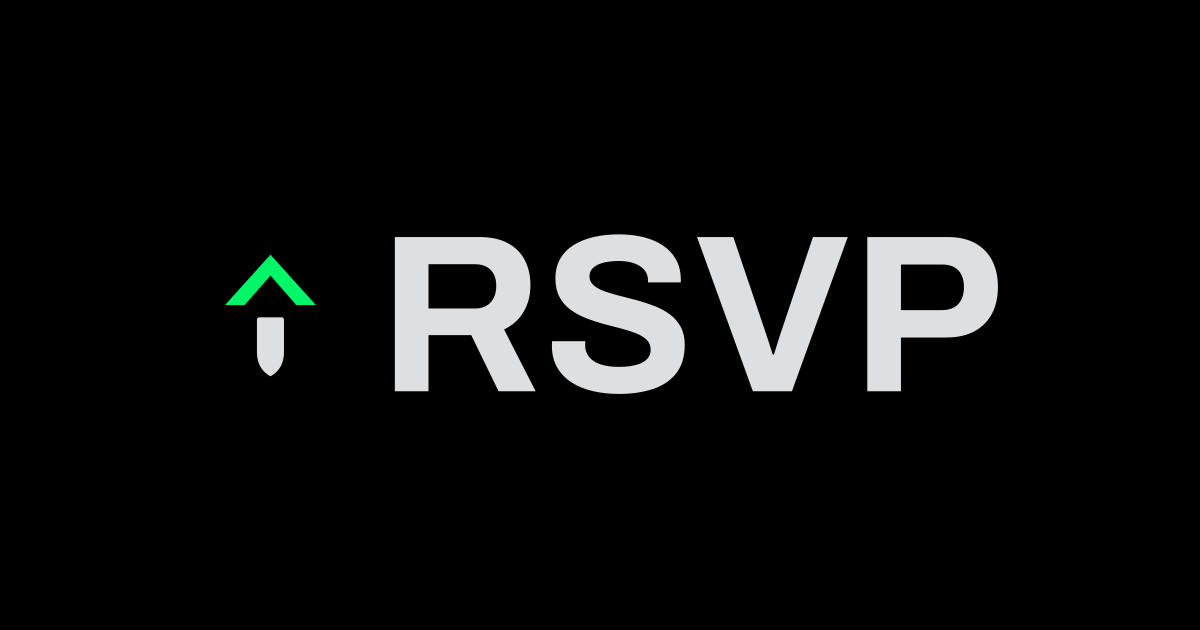
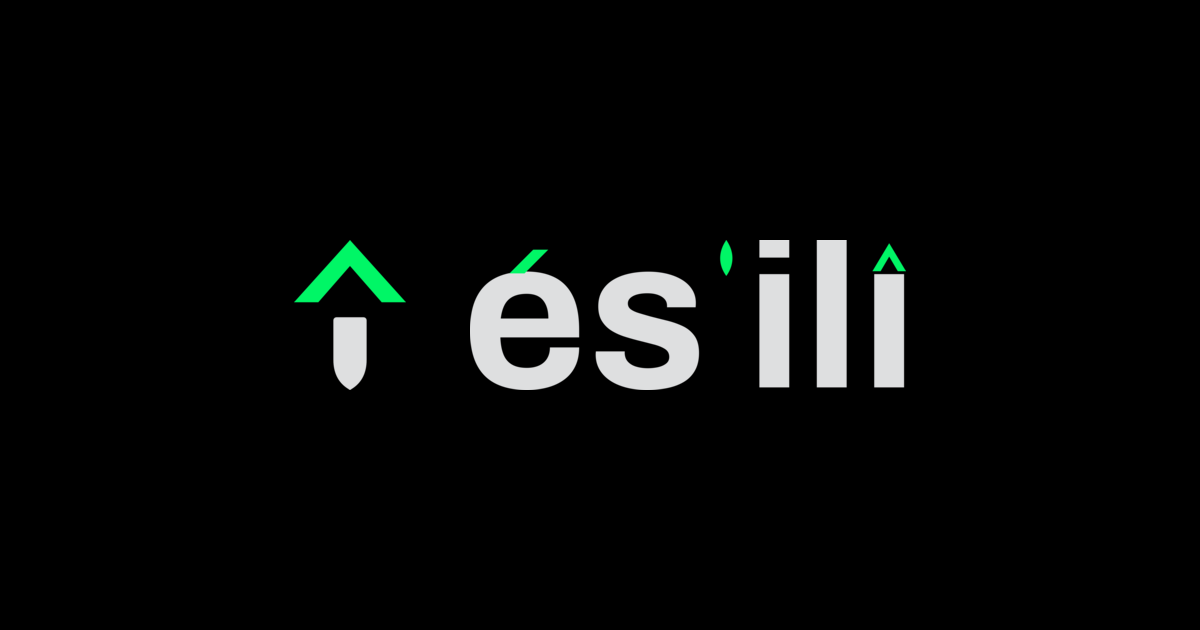
feat(brand): make és'ilî the product name across every surface
PM decision 2026-08-27: és'ilî is the product name, not a maker's mark.

The 2026-08-25 rename had reached four surfaces while eleven still read RSVP.
That is not an unfinished rollout — it is two brand positions running at once,
and the recorded rationale ("RSVP names a category, not this product") had
already chosen between them.

A link sent by email said és'ilî, its preview image said RSVP, the tab title
said és'ilî, and the admin console said RSVP. One journey, three answers.

Changed:
- OG share image rebuilt from the brand kit: î monogram plus the és'ilî
  wordmark on black, accent green on the three diacritics
- Admin header text on both admin pages
- Event-card organizer name in lib/event.ts
- Logo alt text on the landing, /register and /status
- package.json name
- Metadata description: "Event RSVP & check-in system" also claimed check-in,
  which is Phase 2 and not shipped — a §9.7 credibility violation independent
  of the rename. Now "Event registration and guest management"

Deliberately unchanged:
- The Netlify subdomain r-khiong-rsvp.netlify.app. Netlify does not redirect a
  renamed site's old URL; per Netlify support it returns "Page not found", and
  that URL has already gone out in applications. A custom domain can be added
  alongside it later — lib/site.ts already reads NEXT_PUBLIC_SITE_URL
- The hero line "Manage event RSVPs without the spreadsheet chaos" — RSVP is a
  common noun there, and it is now the only thing on the page saying what the
[…]

Changed region(s): [[0.185, 0.3619, 0.8325, 0.6333]]

diff --git a/app/admin/registrations/page.tsx b/app/admin/registrations/page.tsx
@@ -39,7 +39,7 @@ export default async function RegistrationsPage({
       <header className="flex flex-wrap items-center justify-between gap-4">
         <div className="flex items-center gap-2 font-semibold">
           <CalendarCheck className="h-5 w-5" />
-          <span className="text-lg">RSVP</span>
+          <span className="text-lg">és&apos;ilî</span>
         </div>
         <div className="flex items-center gap-4">
           <span className="text-sm text-muted-foreground">{user.email}</span>

diff --git a/lib/event.ts b/lib/event.ts
@@ -35,7 +35,7 @@ export const EVENT: EventInfo = {
     "https://www.google.com/maps/search/?api=1&query=Aspace+YS+No.+1+Yumen+St+Zhongshan+Dist+Taipei",
   description:
     "An evening of talks and open networking for digital marketing practitioners.",
-  organizerName: "RSVP",
+  organizerName: "és'ilî",
 };
 
 // Formatting is composed from separate Intl formatters rather than

diff --git a/app/admin/login/page.tsx b/app/admin/login/page.tsx
@@ -60,7 +60,7 @@ export default function AdminLoginPage() {
       <div className="w-full max-w-md space-y-6">
         <div className="flex items-center justify-center gap-2 font-semibold">
           <CalendarCheck className="h-5 w-5" />
-          <span className="text-lg">RSVP</span>
+          <span className="text-lg">és&apos;ilî</span>
         </div>
 
         <Card>

diff --git a/app/status/[token]/page.tsx b/app/status/[token]/page.tsx
@@ -109,7 +109,7 @@ export default async function StatusPage({
       <nav className="flex items-center justify-between border-b border-white/10 px-[34px] py-[18px]">
         <Image
           src="/brand/mark-primary-dark.svg"
-          alt="RSVP"
+          alt="és'ilî"
           width={30}
           height={32}
           priority

diff --git a/app/layout.tsx b/app/layout.tsx
@@ -42,7 +42,7 @@ export const metadata: Metadata = {
   // http://localhost:3000 and every shared link ships a dead preview image.
   metadataBase: new URL(SITE_URL),
   title: "és'ilî",
-  description: "Event RSVP & check-in system",
+  description: "Event registration and guest management",
 };
 
 export default function RootLayout({

diff --git a/app/register/page.tsx b/app/register/page.tsx
@@ -113,7 +113,7 @@ export default function RegisterPage() {
       <nav className="flex items-center justify-between border-b border-white/10 px-[34px] py-[18px]">
         <Image
           src="/brand/mark-primary-dark.svg"
-          alt="RSVP"
+          alt="és'ilî"
           width={30}
           height={32}
           priority

diff --git a/app/page.tsx b/app/page.tsx
@@ -93,7 +93,7 @@ function Monogram() {
   return (
     <Image
       src="/brand/mark-primary-light.svg"
-      alt="RSVP"
+      alt="és'ilî"
       width={30}
       height={32}
       priority

diff --git a/docs/decision-log.md b/docs/decision-log.md
@@ -64,4 +64,5 @@
 | 2026-07-29 | Second recurrence of "Grants are per-role". `/register` was using the session-aware `createBrowserClient`, so a browser carrying an admin session submitted as `authenticated` — a role never granted `SELECT ON events` or `INSERT ON registrations`, producing 42501. **Fixed in code (a new anon-only client) rather than in SQL (granting `authenticated`)**: the SQL route would have given the read-only demo admin INSERT permission and broken that guarantee, since its restrictive policy only blocks UPDATE and DELETE. Error codes were surfaced in the UI at the same time — this failure ran for 12 days precisely because generic copy made a permission error and a connection error look identical. |
 | 2026-08-03 | The 20-second batch-action GIF, part of the read-only demo decision above, was cancelled and never shipped. Superseded by the root landing: the GIF existed to convey the batch action to someone who could not perform it, and the landing now shows the admin console directly through screenshots plus a one-click read-only entry. A separate animation adds nothing the page does not already do. |
 | 2026-08-04 | **The v9 brand system replaced shadcn defaults.** A single `#00F666` accent on a neutral ramp, Archivo / Inter / Geist Mono, dark guest-facing surfaces, and dot-plus-label status indicators, superseding the earlier position that the project would not define its own brand colour or typeface. Rationale: the product needed a brand position. shadcn defaults are a sensible starting point, not an identity — a product that looks like every other shadcn build has no position to occupy, and the visual language is part of what the product is, not decoration applied afterwards. This entry closes a gap: the change shipped without a decision record, which is why CLAUDE.md §8.6 contradicted the codebase for three weeks. |
+| 2026-08-27 | **és'ilî confirmed as the product name, not a maker's mark.** The 2026-08-25 rename reached four surfaces while eleven still read RSVP, which is two brand positions running at once rather than an unfinished rollout. Resolved in favour of the product reading: the OG share image, the admin header text, the event-card organizer, every logo `alt`, and the package name are now és'ilî. RSVP survives only as a common noun in the hero line — the brand name says who, the category word says what. **Not changed:** the Netlify subdomain `r-khiong-rsvp.netlify.app` stays. Netlify does not redirect a renamed site's old URL — it returns Page not found — and that URL has already gone out in applications. A custom domain can be added later alongside it; `lib/site.ts` is already built for that. The admin header still uses a lucide `CalendarCheck` where §8.6 specifies the î monogram; that is part of the admin v9 redesign. |
 | 2026-08-27 | **Language layering reversed.** Everything in the public repository is to be English — source, documentation, UI copy, commit messages, and repo metadata. Documentation and repo metadata are done; **the landing copy is still Chinese and is the remaining item**. The 2026-07-10 entry above scoped its Chinese to the landing narrative only; once `docs/` moved into the repo the effect spread to the whole documentation set, which the original decision never considered. Rationale: an all-English repository was the intent from the first commit. The 2026-07-10 split was a deviation from that intent rather than an evolution of it, and mixed-language documentation was never the goal. Consequences: the Noto Sans TC fallback comes out of the font stack, and the `<html lang="en">` / Chinese-body mismatch — a WCAG 3.1.1 violation — is resolved. Existing commit messages are not rewritten; history is a record, not a document. |
